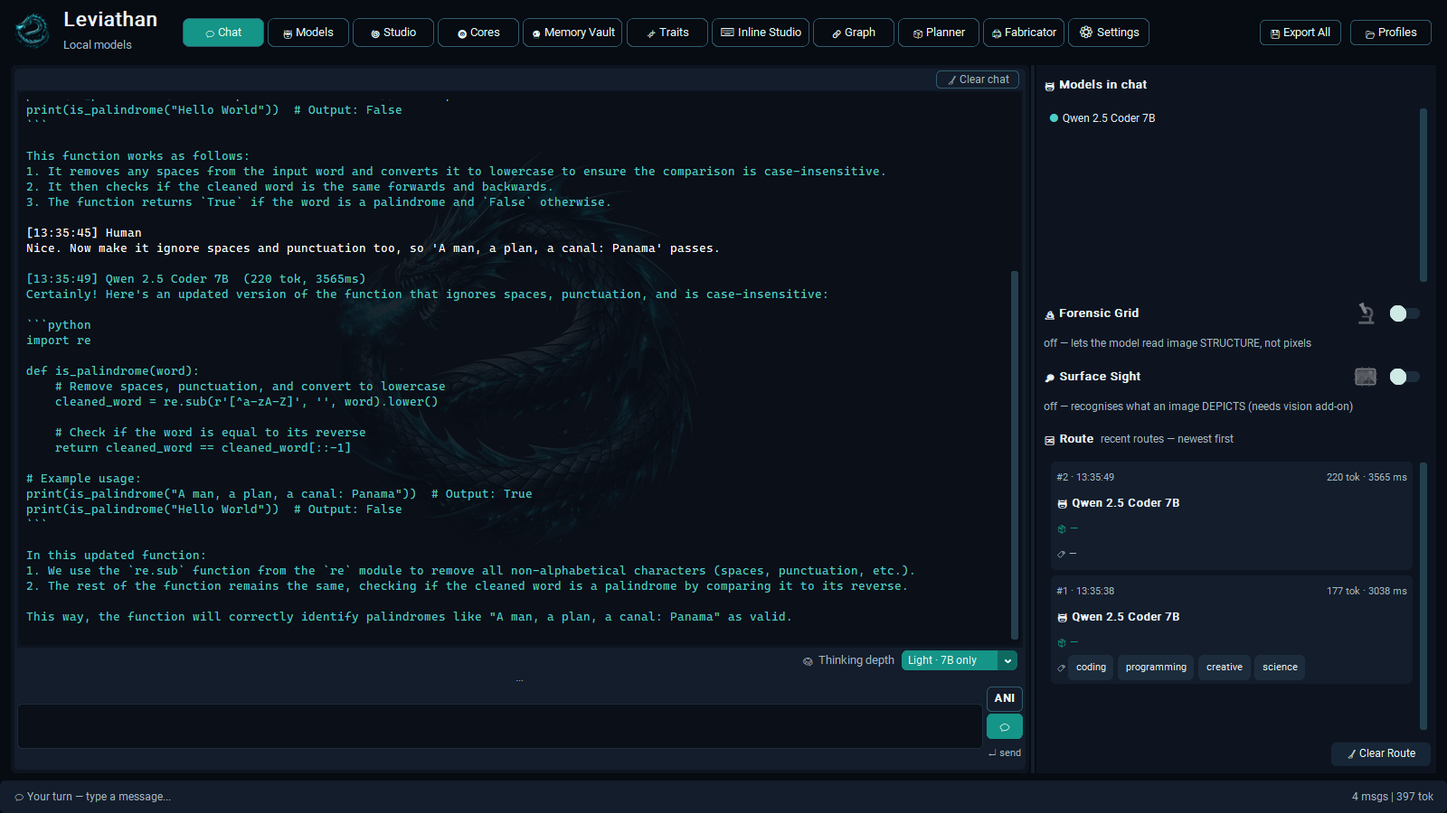
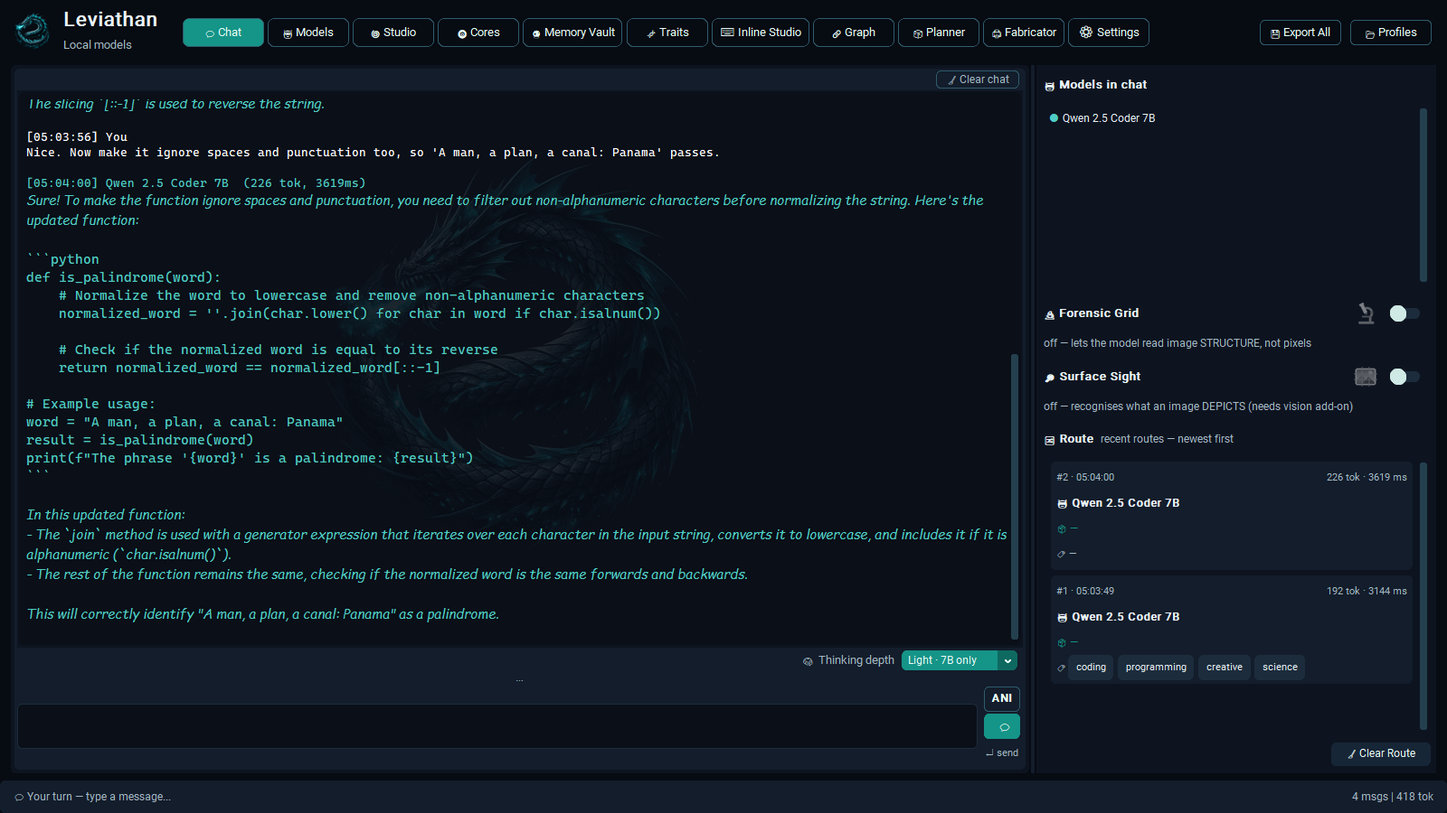
Updated
.Mem added (a replacement to .fqm) massive storage reduction and performance increase.

Also added new Font options in settings,

Token budget update and alot more.

diff --git a/README.md b/README.md
@@ -82,9 +82,9 @@ Everything after that is optional. Leviathan is fully usable knowing only those 
 <a name="the-two-file-types"></a>
 ## 🔷 The two file types
 
-This is the part most people find confusing, and it is worth five minutes because everything else in Leviathan is built on it. There are two kinds of model file, they do two completely different jobs, and they are not alternatives to one another. (There is a third thing — a **knowledge bank** — but it is not a model file at all; it is text, and it gets its own short section below.)
+This is the part most people find confusing, and it is worth five minutes because everything else in Leviathan is built on it. There are two kinds of file — the model, and its memory — they do two completely different jobs, and they are not alternatives to one another. (There is a third thing — a **knowledge bank** — but it belongs to no one model; it is text, and it gets its own short section below.)
 
-A rough analogy, if it helps: if the model is a **person**, then `.lev` is their brain and `.fqm` is their memory of your conversations. Knowledge banks are the books on their shelf — text they can reach for when a question calls for it, not part of the brain itself.
+A rough analogy, if it helps: if the model is a **person**, then `.lev` is their brain and `.mem` is their memory of your conversations. Knowledge banks are the books on their shelf — text they can reach for when a question calls for it, not part of the brain itself.
 
 ---
 
@@ -100,21 +100,25 @@ A rough analogy, if it helps: if the model is a **person**, then `.lev` is their
 
 ---
 
-### 🔹 `.fqm` — the memory
+### 🔹 `.mem` — the memory
 
-**What it is:** what the model remembers, saved to disk.
+**What it is:** what the model remembers of your conversations, kept as plain text — one memory per model.
 
 **Why it exists:** normally, when you close a chat, everything is gone. Next time you open it, the model has never met you. It has no idea what you were working on, what you told it last week, or what you have already explained three times.
 
-A `.fqm` is that memory, written to a file. When you load the model again, the memory loads with it. The conversation genuinely continues.
+A `.mem` is that conversation, kept. When you load the model again, it reads back the newest part of what the two of you said before it answers, so the conversation genuinely continues.
 
-**How a `.fqm` comes into being — on its own, as you talk.** If a model has memory enabled, Leviathan saves a `.fqm` after the first exchange and then every fifth one, quietly, in the background. This is the running memory of *your* conversations with *this* model — it grows as you chat and loads back the next time you open the model. You do not have to do anything, and if it ever *cannot* save, it says so out loud rather than pretending it worked. It also refuses to save a turn that came out garbled, so one bad reply can never lodge itself in the memory permanently.
+**How it comes into being — on its own, as you talk.** Each exchange is written to the model's memory the moment the reply lands: your message and its answer, and nothing else — none of the instructions Leviathan wraps around a turn. You do not have to do anything. A reply that came out garbled (an error message, or the same few words over and over) is not kept, and neither is the message that led to it, so one bad turn can never lodge itself in the memory; a line repeated straight after itself is kept once.
 
-**The save is atomic.** A `.fqm` is written whole or not at all. The new memory is built in full, then swapped in for the old one in a single step the operating system guarantees cannot be interrupted part-way — so a crash, a power cut or a pulled plug mid-save leaves you with the *previous* good memory, never a torn or half-written file. Memory you can trust is memory that cannot corrupt itself, and this atomic write is the quiet mechanism that makes "it just remembers" safe to rely on rather than a thing you hope survived.
+**Two kinds of conversation, kept apart.** Each memory holds two banks. **PMB** is what passed between you and that model — just the two of you. **MPM** is its conversations with other models — a chat with two or more models, or a [Knowledge Route] — with you in it too when you join in, and every line keeps who said it. When you talk to a model alone it reads back its PMB; in a chat between models, each one reads back that conversation from its own side.
 
-**It compresses as it grows — and you decide how.** A conversation that ran for months would make a naive memory file swell without limit. A `.fqm` does not: it keeps your most recent exchanges exact and folds older ones into summaries that grow coarser with age — each level eight times coarser than the one above, over seven levels — so the file grows a level at a time, not with every turn, and nothing is let go until the deepest level fills. Reach is not recall, and we measured the difference: the summaries keep the drift of a conversation, not its specifics — a passage folded two levels down left no measurable trace, and facts pushed out of the exact window came back one time in ten from the `.fqm` alone, the same as no memory. Recent memory stays sharp; the facts you need kept for good belong to [episodic memory](#episodic-memory), which is text and doesn't fade. The whole thing is yours to tune in **Settings → Memory storage**: pick the storage stage — **half-size** (the default: a float16 store at the standard precision, roughly halving every file), **lossless**, or an experimental **Shannon** stage — and set, with a slider, how large the exact window is before the cascade folds the rest. This is a genuine compression system working under your hand, not a format that can only grow.
+**Text, never tokens.** Earlier versions kept a model's *internal working state* on disk instead (a `.fqm`: the numbers a model computes from your words, not the words). We measured what that cost on a 7B model: it held 2.5 GB of graphics memory, grew to 211 MB where the same conversation as text takes 39 KB, and its compressed older part gave back a fact one time in ten — no better than no memory at all. So memory is text now: it takes no graphics memory between turns, stays small on disk, and every word in it is readable — by you, in **Studio → Inspect memory**. Told ten facts in ten turns and asked after a restart, a 7B gave all ten back. Text has a cost too, paid in time: a full read-back (1,900 tokens on an 8K context) adds about 1.4 seconds before a 7B's reply starts on an RTX 4080, and the reply writes about a tenth slower (13.4 → 14.8 ms a token) — what any long prompt costs in Leviathan today. A short conversation costs next to nothing.
 
-**One per model.** The memory is named after the model and lives in your FQM Database folder. Two models loaded at once do not share it or bleed into each other — each wakes up with its own past and no one else's. (Making a model that *sounds like you*, or that already *knows your material*, is a separate and cleaner job: your register is ANI's to mirror — see [ANI Voice] — and your material lives in [knowledge banks], readable by any model, rather than baked into one model's memory.)
+**How much it reads back.** Before each reply the model is handed its newest turns, in the order they happened, up to a quarter of its context length (**Settings → Context length** sets that). Everything older stays in the memory, on disk and searchable. Picking an older thread back up by its subject is [episodic memory](#episodic-memory)'s job.
+
+**The save can't tear.** Each exchange is written as one transaction: a crash or a power cut mid-write leaves the memory as it was, never half-written.
+
+**One per model.** The memory is named after the model file and the name you gave it in **Models** — `<model>.<name>.mem`, in the `memory_banks` folder of your Leviathan data folder (**Settings → Memory** shows it). Rename the model and its memory goes with it. Two models loaded at once never read each other's memory — each wakes up with its own past and no one else's. Coming from an older version, a model's old conversation log is copied in the first time its memory opens — your lines and that model's, nothing another model wrote; an old `.fqm` is left where it is and no longer read. (Making a model that *sounds like you*, or that already *knows your material*, is a separate and cleaner job: your register is ANI's to mirror — see [ANI Voice] — and your material lives in [knowledge banks], readable by any model, rather than baked into one model's memory.)
 
 ---
 
@@ -146,7 +150,7 @@ Where you actually talk to the model.
 
 <p align="center"><img src="screenshots/chat.png" width="900" alt="A two-turn chat with Qwen 2.5 Coder 7B, with the Route panel on the right" /></p>
 
-Type, press Start or `Ctrl+Enter`, and the reply streams back as it is generated. You can interrupt mid-answer — including during the long pause at the start while the model reads a large prompt — and it stops immediately rather than finishing the paragraph first.
+Type and press **Enter** (**Shift+Enter** for a new line). While a local model is writing, the send button turns into a **■** — press it, or **Esc**, and the reply stops where it is: what it wrote so far is kept, shown and remembered, and the chat carries on. A stop pressed while the model is still reading a long prompt counts too; the reply then ends before its first word. A message you send while a reply is being written waits in the box and goes the moment that reply ends.
 
 Down by the input box sits a compact **🧠 depth selector** — **Off · Auto · Light · Medium · Heavy · Max**. This is where you set how hard the model is made to think before it answers, and it lives with the chat, not buried in Settings, so you can change it question by question. What each depth actually does is under [Reasoning layer].
 
@@ -185,13 +189,13 @@ Each connected model gets a row showing where it runs and its file or model name
 - **System Prompt** — the standing instructions the model follows in every reply. Leviathan fills in a sensible default; replace it with whatever you want the model to be.
 - **Temp** — how adventurous its wording is. Lower is steadier and more predictable, higher is looser and more varied.
 - **Reply length is no longer set here.** It used to be a per-model *Max Tokens* field; it is now a **Token budget** set once per surface in **Settings → Token budget** — a slider from 512 up to ∞ — so one setting governs every model on that surface instead of each one carrying its own. The dialog shows *Tokens: Settings → Token budget* as a reminder. (It still matters as much as it ever did: a model held to 512 gives you a paragraph or two; the same model at ∞ can write you a whole document — see [Settings].)
-- **Leech Feed Model** *(Leviathan models only)* — a second model to fall back on. When your local model hedges, gives a thin answer or clearly does not know, Leviathan asks the feed model the same question and absorbs its answer into your local model's memory, so next time it knows. It only ever asks models you have connected yourself. Leave it on *auto* to use the first hosted model in your list.
+- **Leech Feed Model** *(Leviathan models only)* — a second model to fall back on. When your local model hedges, gives a thin answer or clearly does not know, Leviathan asks the feed model the same question. Where the local answer can't be trusted — a calculation, an instruction it skipped, a one-line reply, a question back instead of an answer — you get the feed model's answer instead, and that is the reply your local model's memory keeps. It only ever asks models you have connected yourself. Leave it on *auto* to use the first hosted model in your list.
 
 **🔹 Route — Knowledge Route**
 
-*One model asks. One answers. The mind absorbs everything.*
+*One model asks. One answers. Both remember.*
 
-Pick a model to ask the questions and a model to answer them (the same model for both works; it debates itself), give it a topic, and set how many rounds to run. The two work through the subject back and forth while you do something else, and everything they establish is absorbed into a mind file. It is a way to have a model study a subject deliberately rather than waiting for it to come up in conversation.
+Pick a model to ask the questions and a model to answer them (the same model for both works; it debates itself), give it a topic, and set how many rounds to run. The two work through the subject back and forth while you do something else, and the whole exchange is kept in each model's memory, as a conversation between models ([MPM](#the-two-file-types)). It is a way to have a model study a subject deliberately rather than waiting for it to come up in conversation.
 
 Routes work only from what the two models already know. They do not browse the web.
 
@@ -271,24 +275,23 @@ Three more ways to fill a bank sit in the same tab, all for **code** — where k
 <p align="center"><img src="screenshots/studio-absorb.png" width="900" alt="Absorb → ANI: the code-only card and the card that drains a model's knowledge" /></p>
 
 **🔹 ANI Voice**
-How ANI *sounds* — delivery only. This sets the tone ANI's answers are wrapped in; it never changes what ANI knows or says, only how it says it — the facts are identical in every setting. (It replaces the old "Personality → .fqm" builder: a `.fqm` is a *model's own memory*, and *how a model comes across* is ANI's job — kept separate, and kept clean.)
+How ANI *sounds* — delivery only. This sets the tone ANI's answers are wrapped in; it never changes what ANI knows or says, only how it says it — the facts are identical in every setting. (It replaces the old "Personality → .fqm" builder, which built a model's personality by baking a chat log into its memory. A model's personality now comes from its own conversations, read back as text — see [The two file types] — and how *ANI* sounds is this tab's job: kept separate, and kept clean.)
 - **ANI's voice — your call.** Three registers: **Auto** (match your voice — it learns how you talk, live as you chat and from logs you give it), **Warm** (always-friendly framing), or **Cold** (pure and sharp — the default).
 - **Learn my voice from chat logs.** Point it at your saved chat logs (`.txt`, `.md`, `.json`, `.log`). ANI reads **only your turns** — never the model's, never pasted code — and measures your *register*: your rhythm, how you emphasise, the tells you lean on. It is **gated** — a thin, spammy or incoherent log is rejected rather than learned from, so a poisoned log can't skew how ANI sounds and your existing voice is kept. And the log is read for register **only**: none of its text is ever written into a knowledge bank, so this can never pollute or bloat the vault.
 - **Current learned voice.** Shows the measured profile — how emphatic it is, how often it trails off, its sentence rhythm, the cues it leans on — so you can see exactly what was learnt. Your learned voice is yours and local; nothing leaves.
 
 <p align="center"><img src="screenshots/studio-voice.png" width="900" alt="ANI Voice: the Auto, Warm and Cold registers, and learning your voice from chat logs" /></p>
 
-**🔹 Inspect .fqm**
-Look inside a model's memory. A `.fqm` is what Leviathan saves so a model can pick up where you left off; this tab shows everything in one without changing it. Your memory files are listed; **Open another file…** takes one from anywhere.
-- **What it is** — which model it belongs to, how many tokens it has read, how many it keeps exactly and how many older ones are summarised.
-- **Every byte accounted for** — a `.fqm` is a short tag, a plain-text (JSON) header and blocks of numbers, and their sizes add up to the file's size exactly, so nothing else can hide in it. Every block is unpacked and checked: it is all numbers, and nothing in it is ever run as code. Anything the format doesn't define is flagged.
-- **The header** — every field in plain words, and the text exactly as stored.
-- **The numbers** — every block, what it holds, and a picture of it. **Save this block as .npy** hands you the numbers to check with your own tools.
-- **Read it back** — with the model that made it, the recent part of the memory turns back into the words it came from. A model's first layer computes each entry from its token alone, so every entry matches exactly one token of the model's vocabulary. It runs on the CPU in a few seconds, and it also proves which model a memory belongs to: a different model matches nothing.
+**🔹 Inspect memory**
+Look inside a model's memory — every word of it, because it is text. Every model's memory is listed, with how many turns its PMB holds (you and it), how many lines its MPM holds (its conversations with other models) and when it was last used; **Open another file…** takes one from anywhere.
+- **What it is** — which model and name it belongs to, how many turns are yours and how many the model's, how many conversations with other models it has been in, and how many lines it brought over from an older version's log.
+- **What the model reads back** — what the model will be handed before your next message, laid out as you and the model: its newest turns, as many as fit the same budget it uses (a quarter of its context, counted with the model's own tokenizer while the model is loaded; otherwise estimated from the length of the text, and the model's own count can fit a turn more or less). Pick a conversation with other models to see that one from this model's side instead.
+- **Every line** — PMB or MPM, newest first, with who said it and when; select one to read it in full. **Search** finds lines by their words, best match first.
+- **Yours to change** — **Delete selected lines…**, **Clear this bank…** and **Export as text…** (all of it, as a plain text file you can read anywhere). The first two ask first, and nothing changes unless you say yes.
 
-<p align="center"><img src="screenshots/studio-fqm.png" width="900" alt="Inspect .fqm opening a memory file: what it is, and every byte accounted for" /></p>
+<p align="center"><img src="screenshots/studio-memory.png" width="900" alt="Inspect memory: a model's memory, what it reads back before your next message, and every line" /></p>
 
-A `.fqm` holds no text, but it is made from your conversation: anyone with the same model can read its recent part back. Keep it, and share it, the way you would the chat itself.
+A model's memory is your conversation, word for word. Keep it, and share it, the way you would the chat itself.
 
 ---
 
@@ -299,24 +302,26 @@ A `.fqm` holds no text, but it is made from your conversation: anyone with the s
 
 One panel per connected model, showing the state of that model's mind. It is the tab you open when you want to know whether the memory system is actually doing anything, rather than trusting that it is.
 
-- **Fractal Core** — whether this model has a memory file, where it is, how big, when it last saved, and how much it has taken in. If memory is not working for a model, this is where it shows as pending rather than active.
-- **Local Memory** — conversation history: total messages, how many sessions, the split between what you said and what it said, when it was last active.
+The list is split in two by a line. Above it, **PMB — model to user memory**: each model's memory of you. Below it, **MPM — model to model memory (includes you)**: each model's conversations with other models. Click a model in either half and its panel opens on that part of its memory first.
+
+- **PMB** — how many turns it holds, yours and the model's, when it started and was last used, how much text, how much of it the model reads back before its next reply, how many turns came over from an older version's log, and where the memory is kept. If a model has no memory yet, it says so.
+- **MPM** — how many conversations with other models it has been in, how many lines, how many are its own, the other models' and yours, when it was last used, and who each conversation was with.
 - **Trait Profile** — measured characteristics of how this model actually behaves, with its dominant trait named.
 - **Session Stats** — this session's message count, and the settings in force: temperature, maximum response length, context limit.
 
-Each model gets its own core. They do not pool and they do not leak into each other.
+Each model gets its own core. They do not pool, and no model reads another's memory.
 
 ---
 
 <a name="memory-vault"></a>
 ### 🔷 Memory Vault
 
-*Pure knowledge · No personality bleed.*
+*Each model's memory · lines of text.*
 
-The archive. Every memory file, model and knowledge file Leviathan can see, in one list, with totals across the whole collection — how many memories, how many models, how many tokens and parameters, how much disk.
+The archive. Every model's memory first — each counted in **lines of text**: how many lines it holds, how many are its PMB (you and it) and how many its MPM (its conversations with other models), when it was last used, and its size on disk. Click one for the detail, and **🧠 Read every line in Studio** opens it in [Inspect memory]. Below the memories, every model file Leviathan can see (`.lev` and `.gguf`), read from the file's own header: its architecture, exact parameter count, layers and size.
 
 - **📁 Add Folder** brings in a folder from anywhere on your machine. Your models do not have to live where Leviathan put them.
-- **🧹** cleans up files flagged as stale or broken.
+- **🧹** frees the memory the app itself is holding (caches, the scan); your files are not touched.
 - **Auto-backup** *(on by default)* — when on, absorbing knowledge also writes a `.jsonl` backup of your banks to the backup folder, so your distilled knowledge is never trapped in a single file. (Whether knowledge is *offered* to models is the **Knowledge routing** switch in **Settings → Knowledge routing (ANI)**; this toggle is purely about keeping backups.)
 
 **The right-hand panel on this tab** is the **🧠 Knowledge Banks** browser: the text knowledge banks Leviathan holds right now (the live banks and their `.jsonl` backups), which folders they are read from, and — click a bank — how many entries it holds with a sample of what is inside. You can point it at additional folders anywhere on your machine and it remembers them between sessions. It is the place to check what knowledge Leviathan can actually see.
@@ -490,15 +495,17 @@ Here is everything you will find, top to bottom:
 
 **🔹 Server for other programs** — lets a game engine, a script, or any other program on this machine use the models Leviathan runs, over a local HTTP endpoint (127.0.0.1:8080, OpenAI-compatible *and* Leviathan-native). Flip on to start, off to stop. [Using Leviathan from other programs].
 
-**🔹 Token budget** — how much a model may write in **one reply**, set per surface: **Chat**, **Inline Studio**, the **Graph** and the **Planner** — each a place a model actually writes. A slider from **512** up to **∞**. This is *reply* length, and it is separate from context length: a big context does not make replies longer, this slider does. ∞ is bounded only by the model's own context window — your hardware, not a built-in cap.
+**🔹 Token budget** — how much a model may write in **one reply**, set per surface: **Chat**, **Inline Studio**, the **Graph** and the **Planner** — each a place a model actually writes. A slider from **512** up to **∞**. This is *reply* length, and it is separate from context length: a big context does not make replies longer, this slider does. **∞ means no cap at all — not even the context window.** A reply that reaches the end of the window keeps going: your instructions and your question stay in view, the newest part of what the model has written stays with them, and so do the older lines it keeps going back to. For the last few words before the window fills, Leviathan notes where the model's attention goes, and each attention head keeps the earlier lines it was reading: a function defined at the top of a long file, a name the reply keeps using. The rest slides out, so the model never runs past the positions it was trained on and never slows down. Tested on a 7B with a 2,048-token window: a 6,000-token reply counted from 1 to 1,421 without missing a number across five slides, at full speed. Measured against the same 7B holding the whole reply at once, keeping those lines brought its next-word predictions 57 % closer on a long code file, 55 % closer on a long program it wrote itself and 48 % closer on this README, and 3 % closer on its own free prose. Models under about 2B parameters keep a quarter of those lines this way rather than half: on a 0.5B, half cost its own prose. What it can't keep is a detail the reply never looks back at, such as a number mentioned once at the start and not again: that slides out, as before. A reply that falls into repeating itself once it's past the window is stopped, and the **■** beside the chat box (or **Esc**) stops any reply part-way, keeping what it wrote.
 
-**🔹 Context length** — the model's **single-pass window**: how big one prompt can be (system prompt + any project files + any ANI reference + your message) and the range its positions cover. From **2048** up to **Max** — the model's own full trained window, costing more VRAM the higher you go, bounded by your card and not by us. This is *not* long-term memory: the `.fqm` and episodic memory carry a conversation across sessions at any window (the `.fqm` keeps the newest part exact and folds the rest into ever-coarser summaries). So raise it only when a single prompt is genuinely large, such as Inline Studio with ANI injection. It was silently pinned at 2048 before; now it is yours. Takes effect the next time a model is loaded.
+**🔹 Context length** — the model's **single-pass window**: how big one prompt can be (system prompt + any project files + any ANI reference + its memory + your message) and the range its positions cover. From **2048** up to **Max** — the model's own full trained window, costing more VRAM the higher you go, bounded by your card and not by us. A model's memory reads back into this window — its newest turns, up to a quarter of it — so a bigger window lets a model read back more of what you said, at the price of slower turns once a conversation fills it; everything older stays in its memory on disk, where episodic memory can find it. Raise it when a single prompt is genuinely large, such as Inline Studio with ANI, or for a longer read-back. It was silently pinned at 2048 before; now it is yours. Takes effect the next time a model is loaded.
 
 **🔹 Faster replies** — lets a small *helper model* write ahead while your model checks its guesses several at a time, so replies arrive sooner and say exactly what they would have said anyway. Switch on **Use a helper model to speed up replies** and pick the helper: the list shows the small models in your model folders, or **Browse…** to one. It must come from the same family as the model you chat with — for any Qwen 2.5 model, that's Qwen 2.5 Coder 0.5B. The line under the switch tells you, for each loaded model, whether the helper is working for it, and if not, why. Off by default. [Below].
 
-**🔹 Memory storage (.fqm)** — how a model's persistent memory is written to disk; the mechanism is covered in full under [Persistent memory]. Choose the storage stage — **half-size** (float16, the default: about half the size, at the standard KV precision), **lossless**, or an experimental **Shannon** stage — and set the **compaction window**: how many recent tokens stay exact before the cascade folds the older ones into its summary levels, so a long chat's `.fqm` grows a level at a time instead of with every turn.
+**🔹 Memory** — where each model's memory is kept, with **📂 Open folder** to go there and **🧠 Read it in Studio** to look inside; how it works is covered under [Persistent memory]. There is nothing to tune: memory is text, it is written as you chat, and how much a model reads back follows **Context length**.
 
 **🔹 Appearance** — your own colour for Leviathan's frame. Pick it with **R / G / B sliders** or a preset, see it in a preview, and **Apply** repaints the window on the spot; it's remembered next time. Only the frame changes — the window, panels, fields and borders. Buttons, the accent colour and your work (graphs, 3D views, code) keep their own colours, and every panel keeps exactly the brightness it has now, so text stays just as readable whatever colour you choose. **Deep sea** puts the original look back. A **Window opacity** slider makes the whole window see-through, down to half.
+
+**🔹 Chat text** — a font of your own for your messages and another for the replies, so the two read apart at a glance. Pick the **font**, **size** and **style** (regular, bold or italic) for each side, or start from a preset — **Clean**, **Book**, **Typewriter** or **Handwritten**. A preview shows the result as you go, the chat changes on the spot, and it's remembered next time. Code inside a message keeps a fixed-width font, so it still lines up. **As designed** puts the original font back. (The chat pictures in this README show replies in **Comic Sans MS**, size **15**, **italic**.)
 
 **🔹 This machine** — what Leviathan found: your graphics card, and the exact folder your data is being written to.
 
@@ -520,24 +527,26 @@ The tabs above are the surfaces — what you open, click and type into. These ar
 
 **The problem.** Every chat with a local model normally starts from nothing. Close the window and the model has never met you. The usual workaround is to paste a summary of yourself at the start of every conversation, which is tedious, eats your context window, and is a poor imitation of remembering.
 
-**What Leviathan does instead.** As the model reads your conversation, it builds an internal understanding of it. Leviathan writes that understanding to disk as a `.fqm` file and loads it back the next time the model starts. The model resumes rather than restarts.
+**What Leviathan does instead.** Everything you and a model say to each other is kept, as text, in that model's own memory. Before it answers, the model reads back its newest turns with you, in order, so it picks up where you left off. The model resumes rather than restarts. (How the memory is kept, and why as text rather than the model's internal state, is under [The two file types].)
 
 **What that means in practice:**
 
 - You do not re-introduce yourself.
-- Things you explained last week are still known this week.
-- Corrections stick. Tell it you prefer something done a certain way and it stays told.
-- The memory is not a transcript being re-read. It is the model's own representation, so it does not consume your context window the way pasting a summary does.
-- Long conversations keep their order. However long a chat runs, your latest turns stay the latest: when the model's position range would run out, the whole memory slides back along it instead of wrapping round on itself.
-- What it keeps is the *substance of the exchange* — your messages and its answers. The invisible scaffolding Leviathan wraps around each turn (the reasoning nudges, the safety checks, the context it assembles for that one reply) steers the answer and is then left out of the memory. Knowledge is kept; the machinery around it is not, so the memory stays lean and on-point instead of bloating with structure that carries no meaning.
+- What you said recently is there when you come back: the model reads back its newest turns before every reply, up to a quarter of its context length.
+- Older turns aren't lost. They stay in the memory, on disk, and [episodic memory](#episodic-memory) brings one back when your question's words match it.
+- It is your conversation, word for word: readable, searchable, and yours to delete or export in **Studio → Inspect memory**.
+- It costs a share of the context window — a quarter at most — and some time: with a full read-back a reply starts about 1.4 seconds later and writes about a tenth slower (a 7B on an RTX 4080). Nothing stays in graphics memory between turns.
+- What it keeps is the *substance of the exchange* — your messages and its answers. The invisible scaffolding Leviathan wraps around each turn (the reasoning nudges, the safety checks, the context it assembles for that one reply) steers the answer and is then left out of the memory. A reply that came out garbled isn't kept at all.
 
-**When it saves.** After your first exchange, then every fifth. No button. If it cannot save, it tells you — silence would be worse than a warning, because a memory system that quietly does nothing is indistinguishable from one that works. Each save is **atomic**: the new memory is written in full and swapped in as one uninterruptible step, so a crash or power cut mid-save leaves the previous good memory standing, never a corrupted file. The memory can grow, and it can fail to save, but it cannot tear.
+**Talking to several models.** A chat with two or more models, and a [Knowledge Route], go into each model's MPM, not its PMB: each one keeps that conversation from its own side, with every line marked by who said it, and reads it back when the same models talk again. Its PMB stays just you and it.
 
-**Where it lives.** One file per model in your FQM Database folder, named after the model. Deleting it resets that model to a blank slate. Copying it elsewhere backs up that mind.
+**When it saves.** Every exchange, the moment the reply lands. No button. Each one is written as a single transaction, so a crash or power cut mid-write leaves the memory as it was, never half-written.
 
-**Each tab keeps its own headspace.** The two tabs that put a model to work — [Chat] and [Inline Studio] — each hold their own working memory. Set a model coding a clock in Inline Studio, then switch to Chat and ask it for a story, and it starts the story fresh rather than dragging the coding task across. What carries over is the durable `.fqm` knowledge — what the model has actually learnt — not the half-finished job. So the model still remembers, it just does not haul one tab's work into another.
+**Where it lives.** One file per model — `<model>.<name>.mem` in the `memory_banks` folder of your Leviathan data folder (**Settings → Memory** opens it). Deleting it resets that model to a blank slate; copying it elsewhere backs up that memory. Rename a model in Models and its memory goes with it.
 
-**Checking it works.** [🧿 Cores] shows every model's memory status, size and last save time. If a model's core reads pending rather than active, memory is not running for it.
+**Each tab keeps its own headspace.** The model reads back its memory of you in [Chat]; [Inline Studio], the [Graph] and the [Planner] each keep their own working memory for the job in hand. Set a model coding a clock in Inline Studio, then switch to Chat and ask it for a story, and it starts the story fresh rather than dragging the coding task across — while still remembering your chats.
+
+**Checking it works.** [🧿 Cores] shows every model's memory: how many turns, when it was last used, how much it reads back. **Memory Vault** counts every model's lines, and **Studio → Inspect memory** shows every one.
 
 ---
 
@@ -656,7 +665,7 @@ It is careful about what it keeps. A near-duplicate of something already there i
 <a name="episodic-memory"></a>
 ### 🔶 Episodic memory
 
-A model in Leviathan remembers your conversations — and that memory is **its own**. Each model keeps a running episodic record of what *it* discussed with you, recalled across sessions, so you can pick a thread back up weeks later and it knows what you meant. It finds past turns by the words in your question, so "what's my sister called?" finds the turn where you said "my sister's name is…"; a question that shares no word with the old turn won't find it. Measured on a 7B model: ten facts planted, then pushed out of the `.fqm`'s exact window by later conversation, then asked after a restart. Episodic memory brought back all ten; the `.fqm` alone, one — the same as no memory at all.
+A model in Leviathan remembers your conversations — and that memory is **its own**. Each model keeps a running episodic record of what *it* discussed with you, recalled across sessions, so you can pick a thread back up weeks later and it knows what you meant. It finds past turns by the words in your question, so "what's my sister called?" finds the turn where you said "my sister's name is…"; a question that shares no word with the old turn won't find it. Measured on a 7B model: ten facts planted, then pushed out of the model's working memory by later conversation, then asked after a restart. Episodic memory brought back all ten. (The memory format Leviathan used before, the `.fqm`, brought back one on its own — the same as no memory at all, and one reason memory is kept as text now.)
 
 **Per model, by design.** A model recalls only its *own* past turns — never another model's. This matters more than it sounds: pooling chat memory across models is how you end up with a model answering in a voice, and with "memories", that were never its own — a split personality that reads as hallucination. So the memory is kept strictly per model, and it never folds into ANI's shared knowledge banks either. Your episodic history steers the model that lived it, and nothing else.
 
@@ -701,7 +710,7 @@ Think of an apprentice and a master. The apprentice sketches the next few stroke
 
 - **At temperature 0** (no randomness), the reply comes out the same, token for token, with the switch on or off. In our tests it was identical every time, in every format below. Strictly speaking, checking several tokens at once adds the numbers up in a slightly different order, so a near-perfect tie between two words could in principle tip the other way, just as it can between two different graphics cards. We haven't seen it happen.
 - **With creativity turned up** (temperature above 0; Leviathan's default is 0.7), your model's reply is a fresh random draw every time anyway. Leviathan keeps the odds *exactly* as your model would set them: each guess is kept with precisely the chance your model gives it, and when one is turned down, your model draws its own token from the chances that are left. You get the same kind of answer, with the same variety, sooner. This is the standard, proven method, published in 2023 by Yaniv Leviathan, Matan Kalman and Yossi Matias at Google and, independently, by Charlie Chen and colleagues at DeepMind. (The surname is a coincidence. Honestly.)
-- **Your memory stays clean.** With persistent memory on, every guess your model turns down is taken back out of its `.fqm` straight away, so the memory holds exactly the reply you were given and nothing that was rejected.
+- **Your memory stays clean.** A model's memory is written from the reply you were given, once it has landed, so a guess your model turned down never reaches it.
 
 **What you need.**
 
@@ -775,7 +784,7 @@ A language model, on its own, is frozen. It knows what it was trained on, and af
 - You feed it knowledge — your own code and datasets, a model drained before you retire it, an answer a cloud model gave you. All of it becomes plain text in one shared space, held on your machine.
 - When you ask a question, ANI finds the knowledge that fits — by *meaning*, not by matching words — and hands it to the model before it answers.
 - When the model reaches the edge of what it knows — where it would otherwise fill the gap with a confident guess — that gap can be caught, and answered from real knowledge instead of invented on the spot.
-- The corrected exchange is remembered in that model's own persistent memory. The next time, it already knows.
+- The corrected exchange is kept in that model's own memory, so it reads the corrected answer back the next time.
 - And the store tidies itself — merging duplicates, sharpening how things are filed, rejecting noise — so it gets *cleaner* as it grows, not messier.
 
 Learn, adapt, recall — a complete loop, running entirely on hardware you own. It is the same shape as how a person learns: not by rewiring the brain for every lesson, but by taking things in, being corrected, and remembering — over a whole lifetime, always another lesson to learn.
@@ -807,7 +816,7 @@ Turn it on in **Settings → Server for other programs** — one switch, no term
 
 **OpenAI-compatible.** It speaks the same API as OpenAI's chat endpoint, so anything already built to talk to an OpenAI-style server works by pointing it at `http://127.0.0.1:8080` instead. Most existing tools and libraries need nothing more than a changed URL.
 
-**Leviathan-native.** A richer set of endpoints for things the OpenAI API has no concept of: loading and unloading models on demand, saving memory to disk, querying the recall cache, and listing available knowledge banks. This is the one to use if you are writing something new and want the features that make Leviathan different.
+**Leviathan-native.** A richer set of endpoints for things the OpenAI API has no concept of: loading and unloading models on demand, cancelling a reply mid-answer, and listing available knowledge banks. (Over the bridge, your program keeps its own conversation and sends it with each request; Leviathan keeps no memory for it.) This is the one to use if you are writing something new and want the features that make Leviathan different.
 
 Both stream responses as they generate, and both can be interrupted mid-answer — which matters for a game, where a character being spoken over should stop talking immediately.
 
